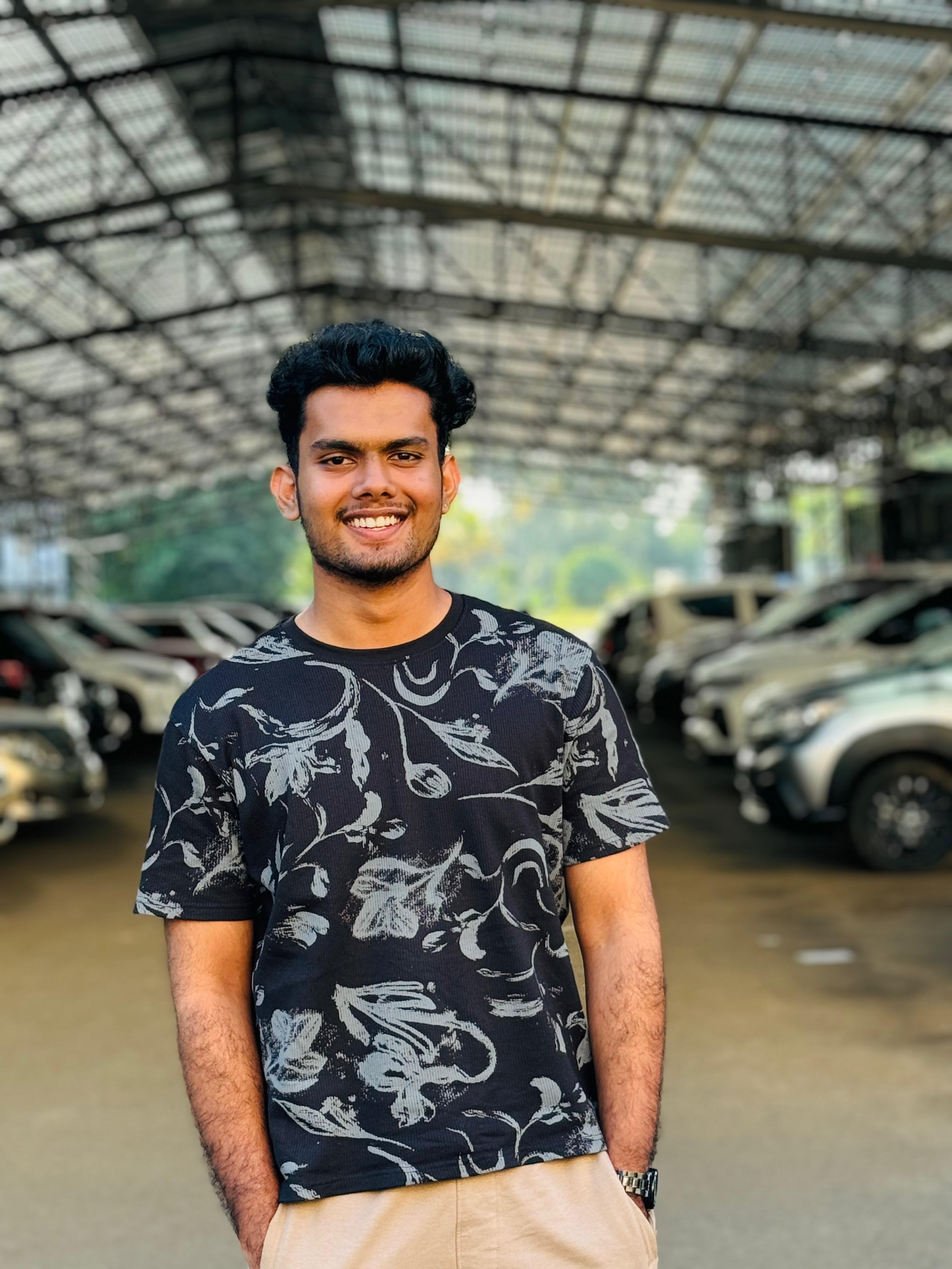
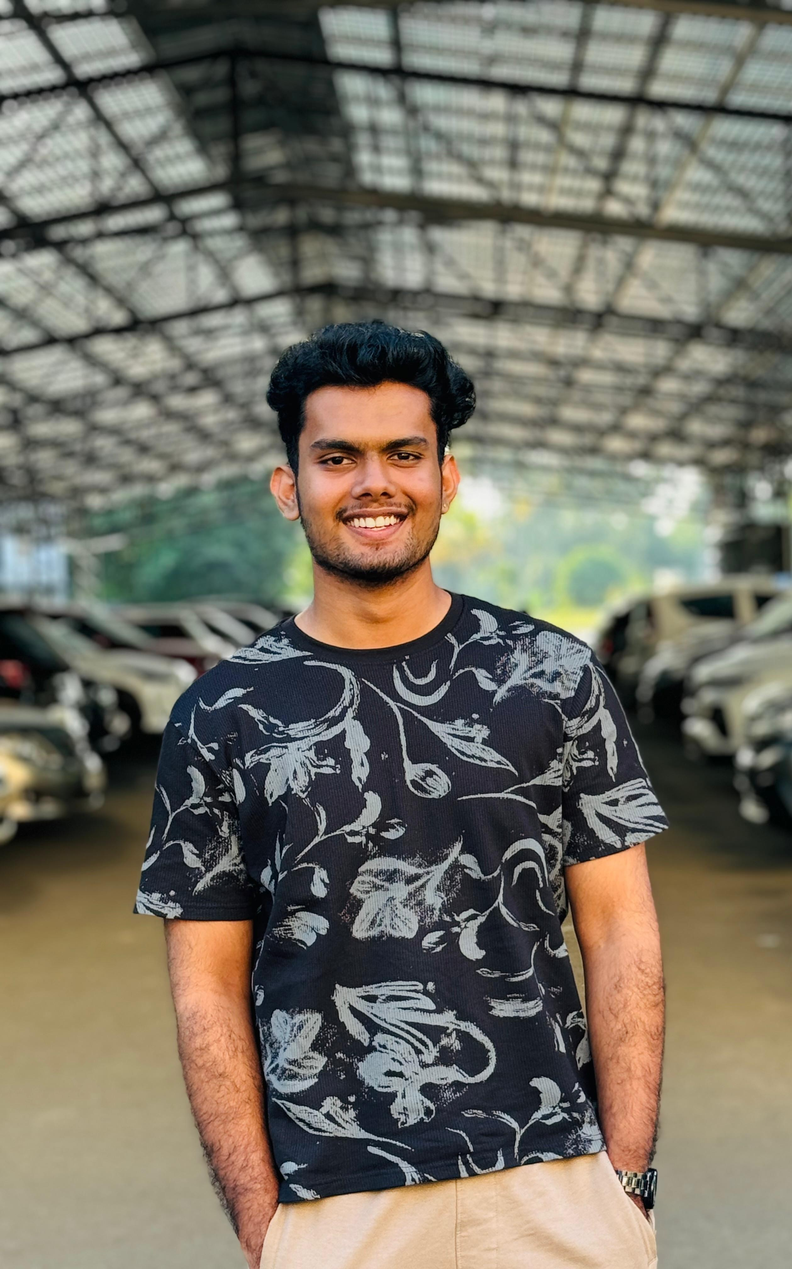
Improve General Body member image layout

diff --git a/src/pages/about/execom2026.js b/src/pages/about/execom2026.js
@@ -37,7 +37,8 @@ export default function ExeCom2020() {
 
           </Member>
           <Member>
-          <Image alt="" src ="/images/Excom_26/Pavithra_A.webp" />
+          <Image alt="" src ="/images/Excom_26/Pavithra_A.webp" 
+          style={{ objectPosition: "center 60%" }}/>
             <Name>Pavithra A</Name>
 <Position>Treasurer</Position>
 
@@ -61,7 +62,8 @@ export default function ExeCom2020() {
 
           </Member>
           <Member>
-          <Image alt="" src ="/images/Excom_26/Alwin_Saji.webp" />
+          <Image alt="" src ="/images/Excom_26/Alwin_Saji.webp" 
+          style={{ objectPosition: "center 30%" }}/>
             <Name>Alwin Saji</Name>
 <Position>Webmaster</Position>
 
